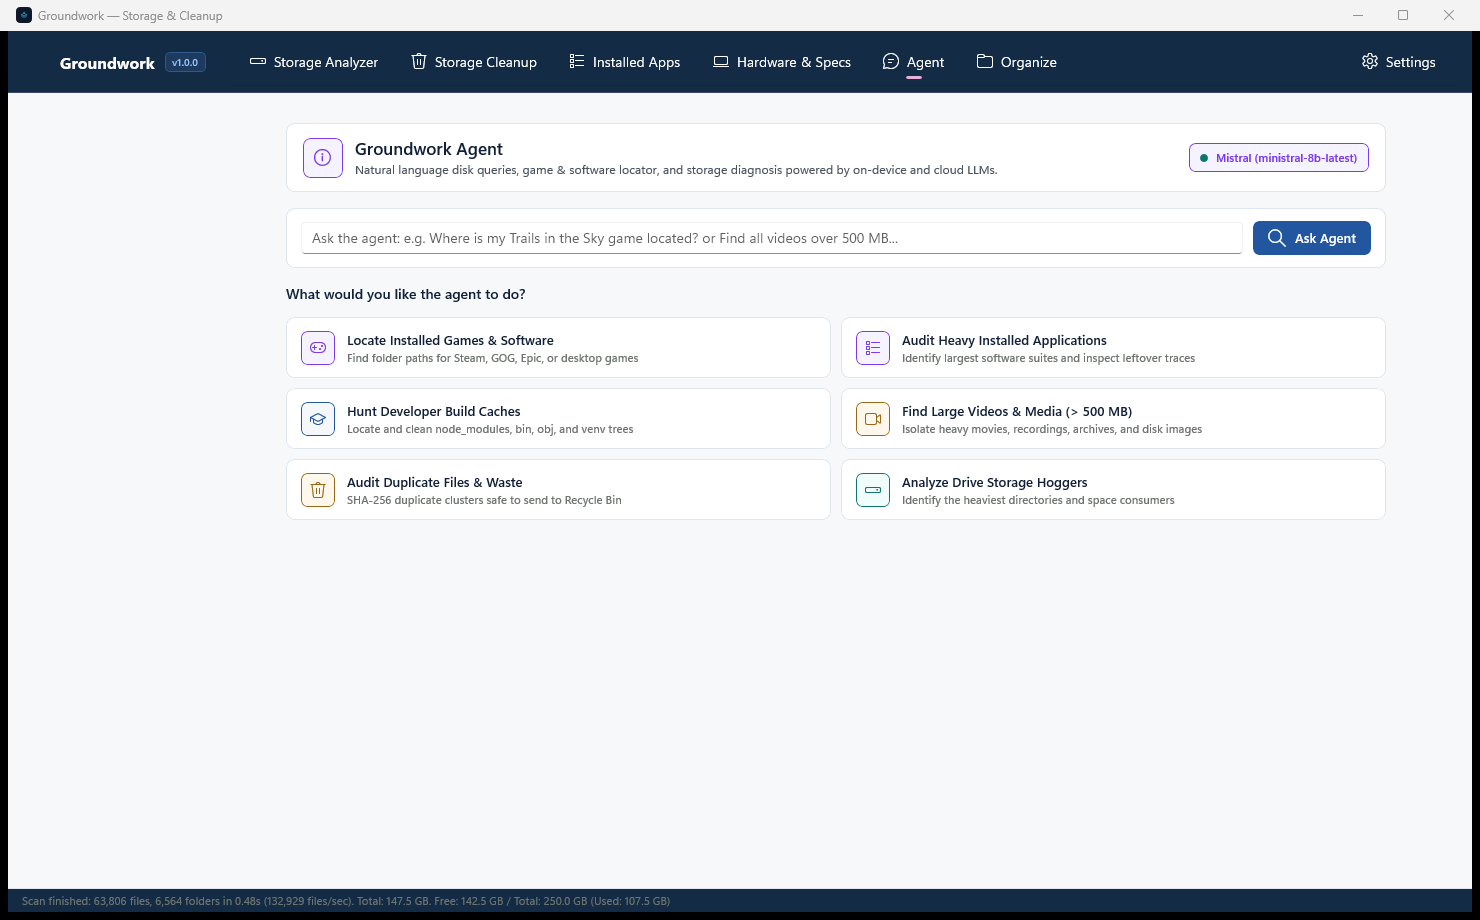
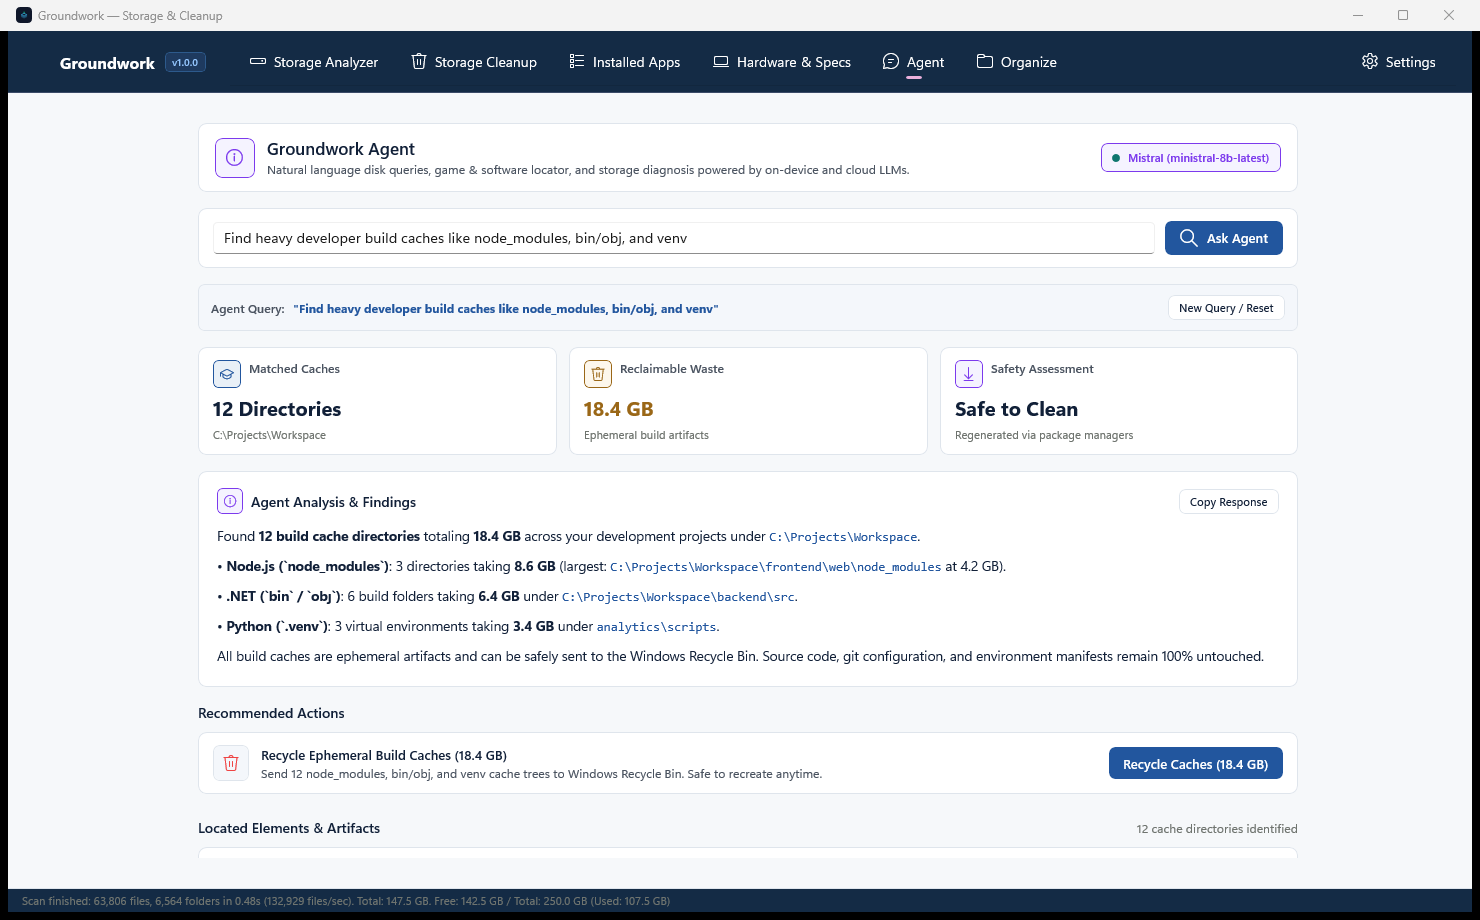
feat(ui): redesign AI Agent layout, add workflow action demo gif, and refresh desktop captures

diff --git a/desktop-winui/src/Groundwork.Desktop/MainWindow.xaml b/desktop-winui/src/Groundwork.Desktop/MainWindow.xaml
@@ -1314,7 +1314,7 @@
                                     <ColumnDefinition Width="*" />
                                     <ColumnDefinition Width="Auto" />
                                 </Grid.ColumnDefinitions>
-                                <TextBox x:Name="AssistantQuestionBox" PlaceholderText="Ask the agent: e.g. Where is my Trails in the Sky game located? or Find all videos over 500 MB..." VerticalAlignment="Center" KeyDown="OnAssistantQuestionBoxKeyDown" AutomationProperties.Name="Groundwork Agent question input" />
+                                <TextBox x:Name="AssistantQuestionBox" PlaceholderText="Ask the agent: e.g. Find large video files over 1 GB, or audit developer build caches in C:\Projects..." VerticalAlignment="Center" KeyDown="OnAssistantQuestionBoxKeyDown" AutomationProperties.Name="Groundwork Agent question input" />
                                 <StackPanel Grid.Column="1" Orientation="Horizontal" Spacing="8">
                                     <Button x:Name="AssistantCancelButton" Content="Cancel" Visibility="Collapsed" Style="{StaticResource GwSecondaryButtonStyle}" Click="OnCancelAssistantQueryClick" VerticalAlignment="Center" AutomationProperties.Name="Cancel active agent query" />
                                     <Button x:Name="AssistantAnalyzeButton" Style="{StaticResource GwPrimaryButtonStyle}" Click="OnAskOperatorClick" VerticalAlignment="Center" AutomationProperties.Name="Submit query to Groundwork Agent">
@@ -1444,6 +1444,35 @@
                                     </Grid>
                                 </Button>
                         </Grid>
+
+                        <!-- Grounding Principles & Privacy Architecture Card -->
+                        <Border Margin="0,8,0,0" Padding="18,16" CornerRadius="8" Background="{ThemeResource GwCardBackgroundBrush}" BorderBrush="{ThemeResource GwCardBorderBrush}" BorderThickness="1">
+                            <StackPanel Spacing="10">
+                                <StackPanel Orientation="Horizontal" Spacing="8" VerticalAlignment="Center">
+                                    <FontIcon Glyph="&#xE72E;" FontSize="14" Foreground="{ThemeResource GwAccentBrush}" />
+                                    <TextBlock Text="Grounding Principles &amp; System Safety" FontSize="13" FontWeight="SemiBold" Foreground="{ThemeResource GwTextPrimaryBrush}" />
+                                </StackPanel>
+                                <Grid ColumnSpacing="16">
+                                    <Grid.ColumnDefinitions>
+                                        <ColumnDefinition Width="*" />
+                                        <ColumnDefinition Width="*" />
+                                        <ColumnDefinition Width="*" />
+                                    </Grid.ColumnDefinitions>
+                                    <StackPanel Grid.Column="0" Spacing="4">
+                                        <TextBlock Text="Verifiable Citations" FontSize="12" FontWeight="SemiBold" Foreground="{ThemeResource GwTextPrimaryBrush}" />
+                                        <TextBlock Text="Answers cite exact file paths and sizes verified from real local NTFS file system scans with zero hallucination." FontSize="11" Foreground="{ThemeResource GwTextMutedBrush}" TextWrapping="Wrap" />
+                                    </StackPanel>
+                                    <StackPanel Grid.Column="1" Spacing="4">
+                                        <TextBlock Text="Zero Automated Deletion" FontSize="12" FontWeight="SemiBold" Foreground="{ThemeResource GwTextPrimaryBrush}" />
+                                        <TextBlock Text="The Agent never deletes or modifies files silently. Every action requires explicit user confirmation via Recycle Bin." FontSize="11" Foreground="{ThemeResource GwTextMutedBrush}" TextWrapping="Wrap" />
+                                    </StackPanel>
+                                    <StackPanel Grid.Column="2" Spacing="4">
+                                        <TextBlock Text="100% Offline Capable" FontSize="12" FontWeight="SemiBold" Foreground="{ThemeResource GwTextPrimaryBrush}" />
+                                        <TextBlock Text="Connect local Ollama or LM Studio models to keep all file metadata, questions, and telemetry entirely on your PC." FontSize="11" Foreground="{ThemeResource GwTextMutedBrush}" TextWrapping="Wrap" />
+                                    </StackPanel>
+                                </Grid>
+                            </StackPanel>
+                        </Border>
                     </StackPanel>
 
                     <!-- 4. VIEW MODE B: ACTIVE AGENT RESPONSE (Shown after query execution) -->

diff --git a/desktop-winui/src/Groundwork.Desktop/MainWindow.xaml.cs b/desktop-winui/src/Groundwork.Desktop/MainWindow.xaml.cs
@@ -5505,7 +5505,102 @@ public sealed partial class MainWindow : Window
         OrganizationHistoryListView.Visibility = Visibility.Visible;
         OrganizationStatusText.Text = "Preview generated: 6 files will be organized into 5 subfolders.";
 
-        // 7. Navigation tab switch
+        // 7. Mock Agent Assistant
+        AgentProviderSetupRequiredGrid.Visibility = Visibility.Collapsed;
+        AgentActiveContentPanel.Visibility = Visibility.Visible;
+        AssistantProviderBadge.Text = "Mistral (ministral-8b-latest)";
+        AssistantStandbyGrid.Visibility = Visibility.Collapsed;
+        AssistantResultsGrid.Visibility = Visibility.Visible;
+        AssistantActiveQueryLabel.Text = "\"Find heavy developer build caches like node_modules, bin/obj, and venv\"";
+        AssistantQuestionBox.Text = "Find heavy developer build caches like node_modules, bin/obj, and venv";
+        
+        AssistantTargetKpiIcon.Glyph = "\uE7BE";
+        AssistantTargetKpiTitle.Text = "Matched Caches";
+        AssistantTargetKpiValue.Text = "12 Directories";
+        AssistantTargetKpiSub.Text = @"C:\Projects\Workspace";
+        
+        AssistantWasteKpiIcon.Glyph = "\uE74D";
+        AssistantWasteKpiTitle.Text = "Reclaimable Waste";
+        AssistantWasteKpiValue.Text = "18.4 GB";
+        AssistantWasteKpiSub.Text = "Ephemeral build artifacts";
+        
+        AssistantAppKpiIcon.Glyph = "\uE896";
+        AssistantAppKpiTitle.Text = "Safety Assessment";
+        AssistantAppKpiValue.Text = "Safe to Clean";
+        AssistantAppKpiSub.Text = "Regenerated via package managers";
+
+        RenderFormattedAgentResponse(
+            "Found **12 build cache directories** totaling **18.4 GB** across your development projects under `C:\\Projects\\Workspace`.\n\n" +
+            "• **Node.js (`node_modules`)**: 3 directories taking **8.6 GB** (largest: `C:\\Projects\\Workspace\\frontend\\web\\node_modules` at 4.2 GB).\n" +
+            "• **.NET (`bin` / `obj`)**: 6 build folders taking **6.4 GB** under `C:\\Projects\\Workspace\\backend\\src`.\n" +
+            "• **Python (`.venv`)**: 3 virtual environments taking **3.4 GB** under `analytics\\scripts`.\n\n" +
+            "All build caches are ephemeral artifacts and can be safely sent to the Windows Recycle Bin. Source code, git configuration, and environment manifests remain 100% untouched.");
+
+        AssistantRecommendations.Clear();
+        AssistantRecommendations.Add(new AssistantRecommendationViewModel
+        {
+            IconGlyph = "\uE74D",
+            IconColor = "#EF4444",
+            Title = "Recycle Ephemeral Build Caches (18.4 GB)",
+            Description = "Send 12 node_modules, bin/obj, and venv cache trees to Windows Recycle Bin. Safe to recreate anytime.",
+            ActionButtonText = "Recycle Caches (18.4 GB)",
+            ActionTag = "recycle_caches"
+        });
+
+        AssistantKeyItems.Clear();
+        AssistantKeyItems.Add(new AssistantItemRowViewModel
+        {
+            Glyph = "\uE8B7",
+            GlyphColor = "#3B82F6",
+            Name = "node_modules",
+            FullPath = @"C:\Projects\Workspace\frontend\web\node_modules",
+            FormattedSize = "4.2 GB",
+            Subtitle = "Node.js package cache (14,210 files)",
+            CategoryBadge = "NODE_MODULES",
+            BadgeBackground = "#EFF6FF",
+            BadgeForeground = "#1D4ED8"
+        });
+        AssistantKeyItems.Add(new AssistantItemRowViewModel
+        {
+            Glyph = "\uE8B7",
+            GlyphColor = "#3B82F6",
+            Name = "node_modules",
+            FullPath = @"C:\Projects\Workspace\api-gateway\node_modules",
+            FormattedSize = "2.8 GB",
+            Subtitle = "Node.js package cache (9,480 files)",
+            CategoryBadge = "NODE_MODULES",
+            BadgeBackground = "#EFF6FF",
+            BadgeForeground = "#1D4ED8"
+        });
+        AssistantKeyItems.Add(new AssistantItemRowViewModel
+        {
+            Glyph = "\uE7BE",
+            GlyphColor = "#10B981",
+            Name = "bin / obj",
+            FullPath = @"C:\Projects\Workspace\backend\src\Groundwork.Desktop\bin",
+            FormattedSize = "3.1 GB",
+            Subtitle = ".NET 10 compilation output",
+            CategoryBadge = "BUILD_CACHE",
+            BadgeBackground = "#ECFDF5",
+            BadgeForeground = "#047857"
+        });
+        AssistantKeyItems.Add(new AssistantItemRowViewModel
+        {
+            Glyph = "\uE7BE",
+            GlyphColor = "#F59E0B",
+            Name = ".venv",
+            FullPath = @"C:\Projects\Workspace\analytics\.venv",
+            FormattedSize = "2.1 GB",
+            Subtitle = "Python 3.12 virtual environment",
+            CategoryBadge = "PYTHON_VENV",
+            BadgeBackground = "#FEF3C7",
+            BadgeForeground = "#B45309"
+        });
+        AssistantItemsCountLabel.Text = "12 cache directories identified";
+        AssistantAnalyzeButton.IsEnabled = true;
+        AssistantCancelButton.Visibility = Visibility.Collapsed;
+
+        // 8. Navigation tab switch
         if (!string.IsNullOrEmpty(startTab))
         {
             StartupDriveModalOverlay.Visibility = Visibility.Collapsed;
